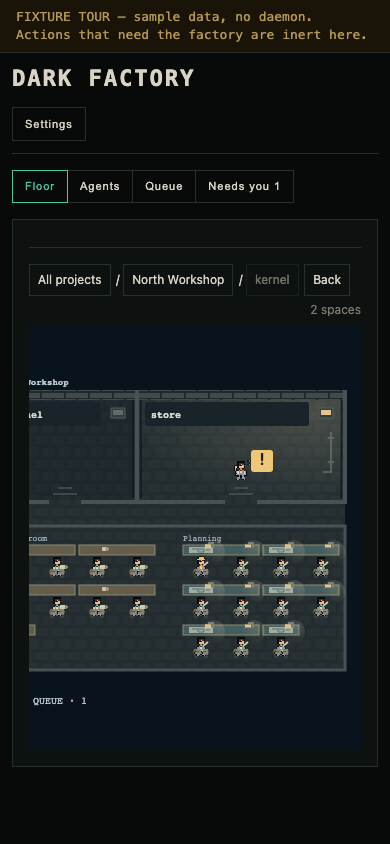
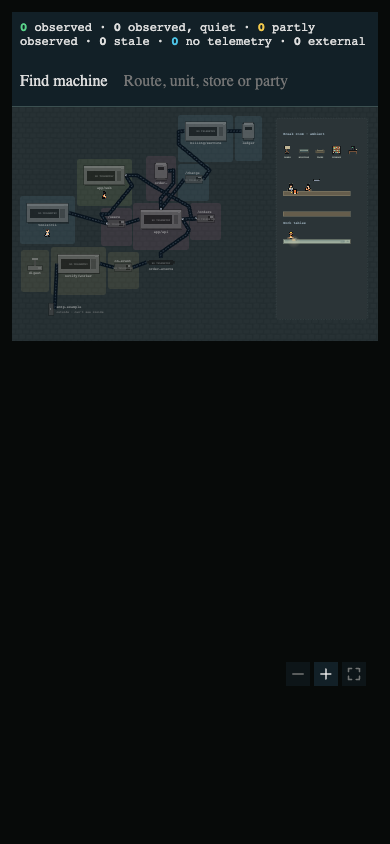
README shows the connected floor
The hero images showed walled rooms from an earlier floor. They are now
captures of the multi-repository fixture on the connected floor.

diff --git a/README.md b/README.md
@@ -8,7 +8,7 @@ Keep parallel work in one place instead of juggling separate agent sessions.
 
 <picture>
   <source media="(max-width: 600px)" srcset="docs/assets/factory-floor-demo-mobile.png">
-  <img src="docs/assets/factory-floor-demo.png" alt="Dark Factory demo showing kernel and store rooms, sample workers, queued work, and an open Needs You decision">
+  <img src="docs/assets/factory-floor-demo.png" alt="Dark Factory floor: machines from three repositories on one shared floor, joined by belts, with faint unit areas, an outside gate, the commons and sample workers">
 </picture>
 
 *Actual console with labelled demo data: sample workers, codebase rooms, and a
